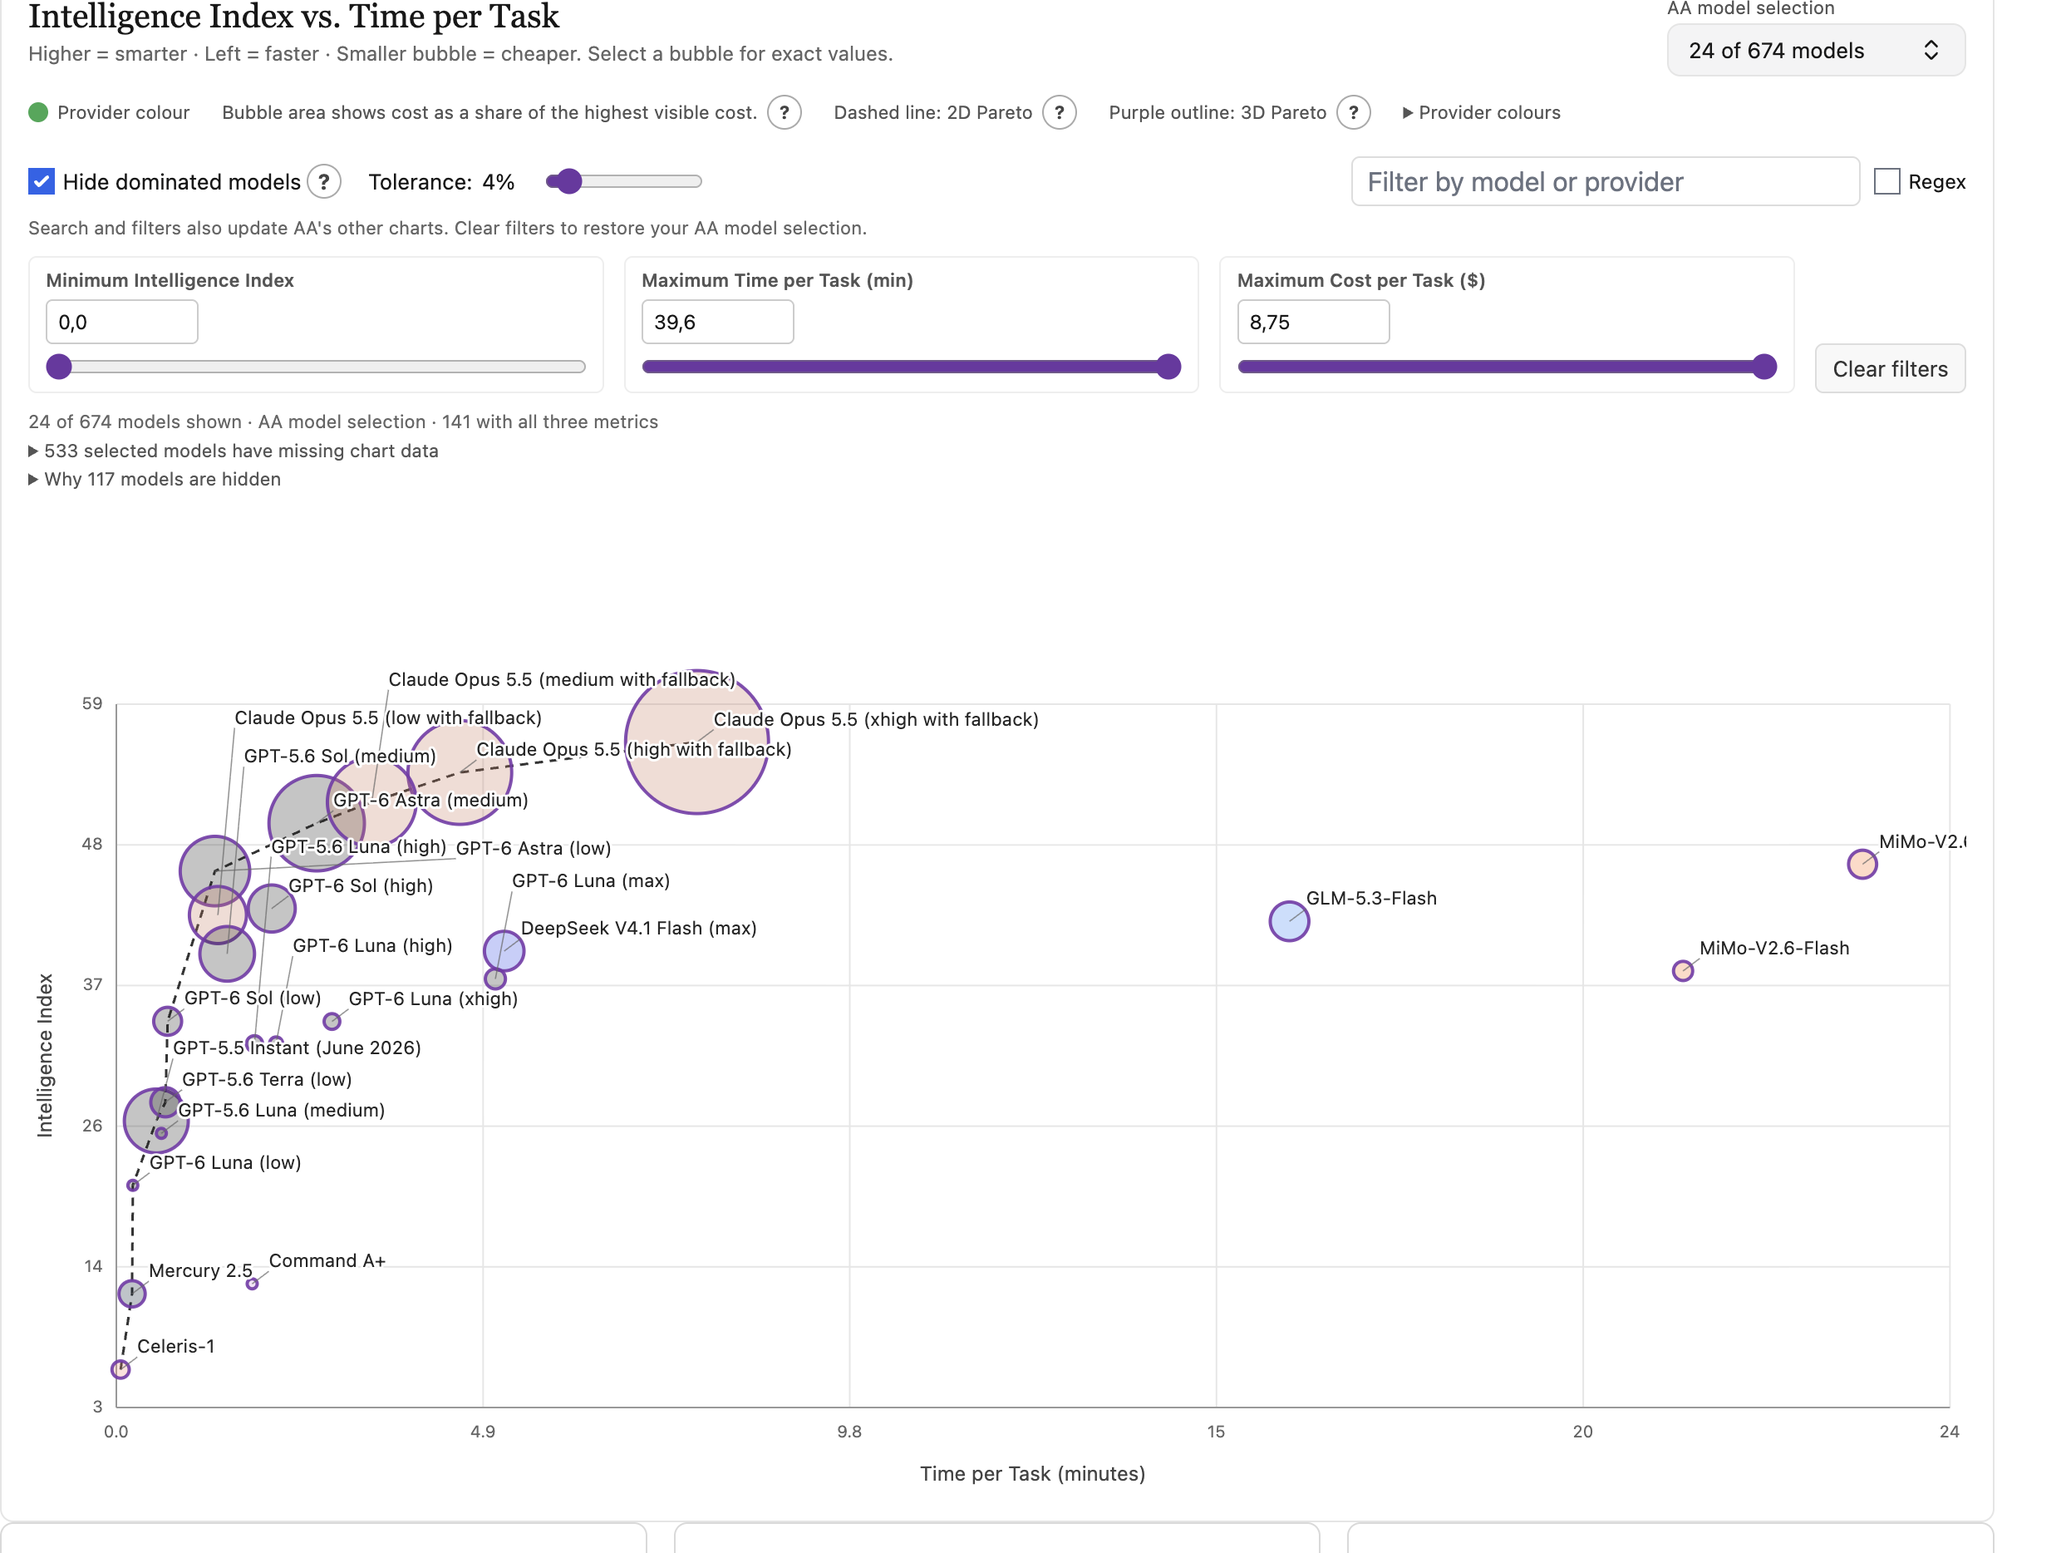
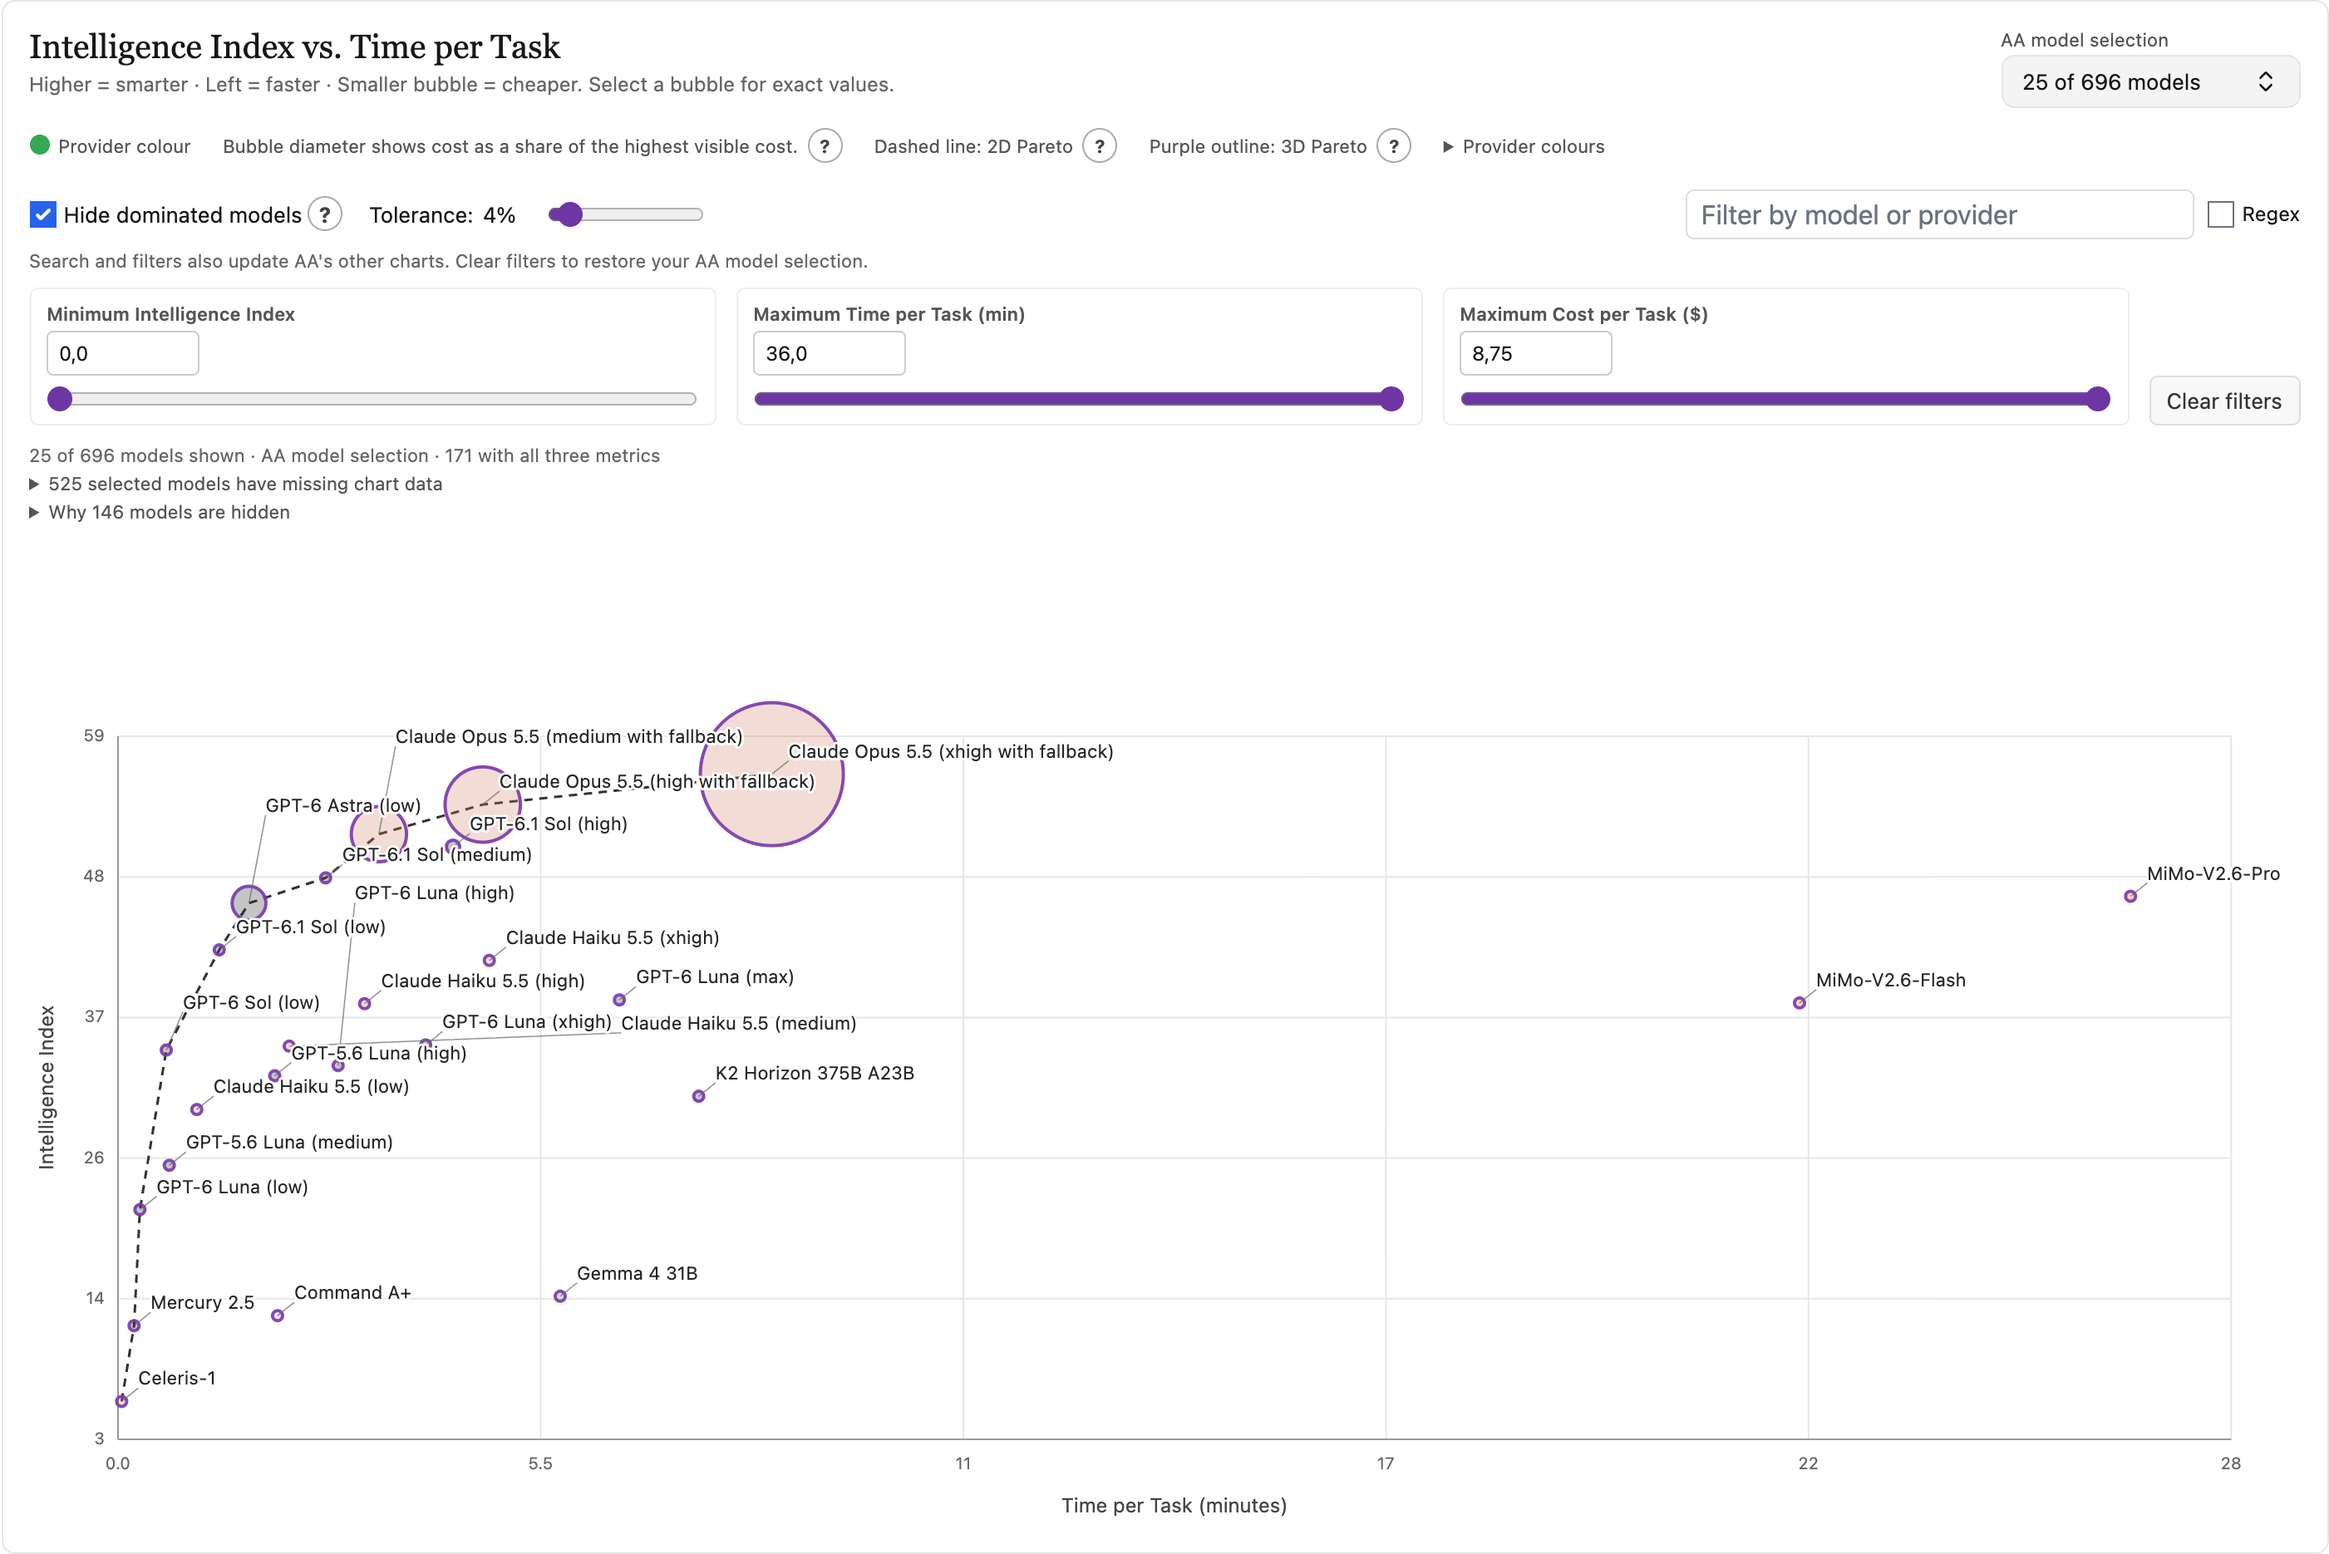
Scale bubble diameters by cost

diff --git a/artificial-analysis-3d-bubble.user.js b/artificial-analysis-3d-bubble.user.js
@@ -1,7 +1,7 @@
 // ==UserScript==
 // @name         ArtificialAnalysis.io: Compare Intelligence, Time AND Cost
 // @namespace    https://artificialanalysis.ai/
-// @version      2.3.0
+// @version      2.3.1
 // @description  Compare AI models by intelligence, time, and cost in one chart. Hide dominated models.
 // @homepageURL  https://github.com/henno/artificial-analysis-bubble-chart
 // @supportURL   https://github.com/henno/artificial-analysis-bubble-chart/issues
@@ -287,7 +287,7 @@
       chart.lang = 'en';
       chart.innerHTML = `
         <div class="aa3d-head"><div><h3>Intelligence Index vs. Time per Task</h3><p>Higher = smarter · Left = faster · Smaller bubble = cheaper. Select a bubble for exact values.</p></div><div class="aa3d-picker-wrap"><span>AA model selection</span><button type="button" class="aa3d-model-picker" aria-label="Select AA models" aria-haspopup="dialog" aria-expanded="false" disabled><span>Select models</span><svg viewBox="0 0 24 24" aria-hidden="true"><path d="m7 15 5 5 5-5M7 9l5-5 5 5"/></svg></button></div></div>
-        <div class="aa3d-legend"><span><i class="aa3d-example-dot"></i> Provider colour</span><span>Bubble area shows cost as a share of the highest visible cost. <button type="button" class="aa3d-help-button" data-help="bubbleSize" aria-label="Explain bubble size" aria-controls="aa3d-help" aria-expanded="false">?</button></span><span>Dashed line: 2D Pareto <button type="button" class="aa3d-help-button" data-help="pareto2" aria-label="Explain 2D Pareto line" aria-controls="aa3d-help" aria-expanded="false">?</button></span><span>Purple outline: 3D Pareto <button type="button" class="aa3d-help-button" data-help="pareto3" aria-label="Explain 3D Pareto outline" aria-controls="aa3d-help" aria-expanded="false">?</button></span><details><summary>Provider colours</summary><div class="aa3d-provider-list"></div></details></div>
+        <div class="aa3d-legend"><span><i class="aa3d-example-dot"></i> Provider colour</span><span>Bubble diameter shows cost as a share of the highest visible cost. <button type="button" class="aa3d-help-button" data-help="bubbleSize" aria-label="Explain bubble size" aria-controls="aa3d-help" aria-expanded="false">?</button></span><span>Dashed line: 2D Pareto <button type="button" class="aa3d-help-button" data-help="pareto2" aria-label="Explain 2D Pareto line" aria-controls="aa3d-help" aria-expanded="false">?</button></span><span>Purple outline: 3D Pareto <button type="button" class="aa3d-help-button" data-help="pareto3" aria-label="Explain 3D Pareto outline" aria-controls="aa3d-help" aria-expanded="false">?</button></span><details><summary>Provider colours</summary><div class="aa3d-provider-list"></div></details></div>
         <div class="aa3d-controls">
           <span class="aa3d-control-group"><label><input type="checkbox" data-control="hideDominated" checked> Hide dominated models</label><button type="button" class="aa3d-help-button" data-help="dominance" aria-label="Explain hidden models" aria-controls="aa3d-help" aria-expanded="false">?</button></span>
           <label class="aa3d-dominance">Tolerance: <output data-value="dominanceTolerance">4%</output><input type="range" min="0" max="50" step="1" data-control="dominanceTolerance" aria-label="Dominance tolerance percentage"></label>
@@ -305,7 +305,7 @@
         <div class="aa3d-status" role="status"></div>
         <details class="aa3d-missing" hidden><summary></summary><ul></ul></details><details class="aa3d-hidden-models" hidden><summary></summary><ul></ul></details>
         <div class="aa3d-mobile-nav"><span>Swipe horizontally to see more</span><button type="button" data-pan="left" aria-label="Scroll chart left">←</button><button type="button" data-pan="right" aria-label="Scroll chart right">→</button></div>
-        <div class="aa3d-plot"><svg role="group" aria-label="Intelligence Index by Time per Task; bubble size shows Cost per Task"></svg><div class="aa3d-tip" id="aa3d-tooltip" role="tooltip" hidden></div></div>`;
+        <div class="aa3d-plot"><svg role="group" aria-label="Intelligence Index by Time per Task; bubble diameter shows Cost per Task"></svg><div class="aa3d-tip" id="aa3d-tooltip" role="tooltip" hidden></div></div>`;
       const style = document.createElement('style');
       style.textContent = `
         #${ID}{margin-top:1.5rem;padding:1rem;border:1px solid #e5e5e5;border-radius:.5rem;background:#fff;color:#171717;font:13px system-ui,sans-serif}
@@ -372,7 +372,7 @@
       const helpText = {
         pareto2: 'The dashed line joins models that have no faster model with equal or higher intelligence. Cost is not part of this line.',
         pareto3: 'A purple outline marks a model for which no other model is at least as smart, fast, and cheap, with one strict improvement. This outline uses exact values, even when tolerance is set.',
-        bubbleSize: 'The highest-cost visible model has the largest bubble. Half the cost gives half the bubble area. Very small bubbles keep a 3 px radius so you can see them. The scale changes when the visible models change.',
+        bubbleSize: 'The highest-cost visible model has the largest bubble. Half the cost gives half its diameter. Very small bubbles keep a 3 px radius so you can see them. The scale changes when the visible models change.',
         dominance: 'Hide a model when another is at least as smart, fast, and cheap, with an improvement in one measure. Tolerance also allows a disadvantage up to the selected percentage if the largest improvement is greater than the largest disadvantage. Example: at 4%, a model 20% faster can qualify even if it is 4% more expensive. Raising tolerance never brings a hidden model back. Open “Why models are hidden” below the filters for exact comparisons.',
       };
       chart.querySelectorAll('[data-help]').forEach(button => button.addEventListener('click', () => {
@@ -544,8 +544,8 @@
     plot.right = Math.max(plot.left + 40, plot.right);
     const xScale = value => plot.left + (value - minX) / (maxX - minX) * (plot.right - plot.left);
     const yScale = value => plot.bottom - (value - minY) / (maxY - minY) * (plot.bottom - plot.top);
-    // Circle area follows the cost ratio. Keep a small visible marker for low costs.
-    const radius = cost => maxCost === 0 ? 43 : Math.max(3, 43 * Math.sqrt(cost / maxCost));
+    // Circle diameter follows the cost ratio. Keep a small visible marker for low costs.
+    const radius = cost => maxCost === 0 ? 43 : Math.max(3, 43 * cost / maxCost);
     const pareto2 = new Set(compute2DPareto(models).map(m => m.id));
     const pareto3 = new Set(compute3DPareto(models).map(m => m.id));
     models.forEach(m => { m.pareto2 = pareto2.has(m.id); m.pareto3 = pareto3.has(m.id); });

diff --git a/README.md b/README.md
@@ -18,7 +18,7 @@ Artificial Analysis lists more than 600 models. Showing many models at once make
 
 - Set a minimum Intelligence Index and maximum time and cost with sliders or number fields. The chart updates as you move a slider.
 - Search by model or provider. Turn on **Regex** to use a pattern such as `(Claude)|(GPT)`; matching ignores case. The chart shows an error if the pattern is invalid. The search, sliders, and dominance filter also update AA's other charts.
-- The most expensive visible model has the largest bubble. Other bubble areas follow their cost as a share of that model's cost. Very small bubbles keep a visible marker.
+- The most expensive visible model has the largest bubble. Other bubble diameters follow their cost as a share of that model's cost. A model at half the cost has a bubble half as wide. Very small bubbles keep a visible marker.
 - Open the AA model picker from the new chart.
 - See a dashed two-dimensional Pareto line and purple outlines for the exact three-dimensional Pareto set. Click the `?` buttons in the chart for explanations.
 - Open “Why models are hidden” to see which model and values caused each model to be hidden.
@@ -29,7 +29,7 @@ Settings are saved in your browser and restored after a page reload. **Clear fil
 
 ## Data and limits
 
-The script reads data from the open AA page. A model needs all three metrics to appear in the bubble chart. AA can change its page structure or data format, which may require a script update. Bubble sizes use the highest cost among currently visible models. Select a bubble to see its cost as a number.
+The script reads data from the open AA page. A model needs all three metrics to appear in the bubble chart. AA can change its page structure or data format, which may require a script update. Bubble diameters use the highest cost among currently visible models. Select a bubble to see its cost as a number.
 
 The script does not send data to another server. Tampermonkey checks GitHub for updates. This is an independent addition and is not an official Artificial Analysis feature.
 
